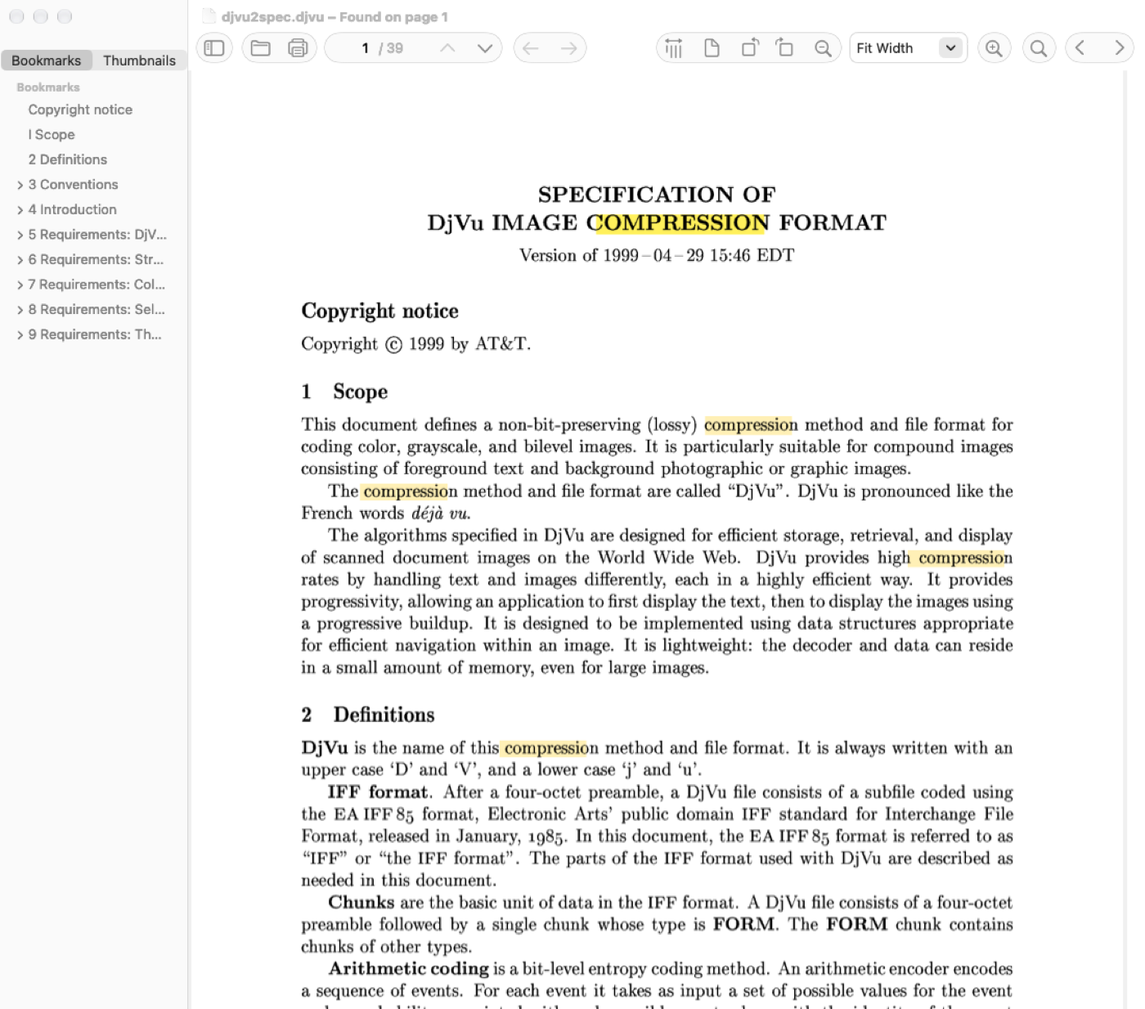
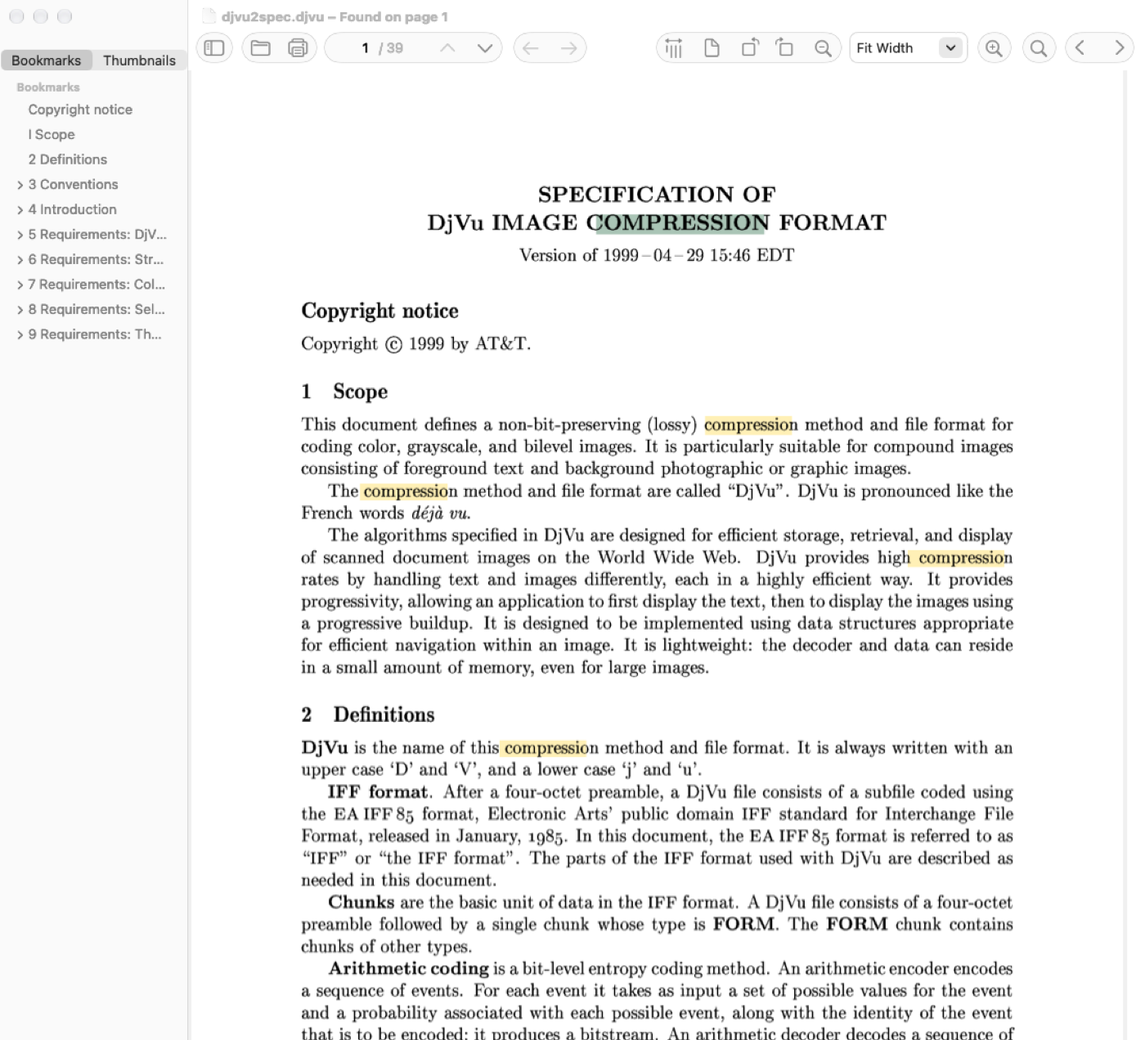
docs: first manual QA pass, changelog for 1.1.0

diff --git a/docs/MANUAL_QA.md b/docs/MANUAL_QA.md
@@ -23,71 +23,94 @@ build/SiliconReader.app/Contents/MacOS/SiliconReader -library /tmp/qa-library.js
 
 ## Прогон
 
-| Версия | Дата | macOS | Mac |
-|---|---|---|---|
-|  |  |  |  |
+| Версия | Дата       | macOS  | Mac      |
+| ------ | ---------- | ------ | -------- |
+| 1.0.4  | 07.11.2026 | 27.0.1 | Mac mini |
 
 ## Мышь и трекпад
 
-| Проверка | Ожидание | Статус | Заметка |
-|---|---|---|---|
-| Выделение текста перетаскиванием через несколько страниц | Выделяется непрерывно, ⌘C копирует всё | | |
-| Перетаскивание по пустому месту | Страница двигается рукой | | |
-| Двойной и тройной клик | Слово и строка | | |
-| Клик по внутренней ссылке в PDF | Переход на страницу, «Назад» возвращает | | |
-| Клик по внешней ссылке в PDF | Открывается браузер | | |
-| Курсор над ссылкой и над текстом | Рука и I-beam | | |
-| Щипок на трекпаде | Масштаб вокруг курсора | | |
-| Двойное касание двумя пальцами | Умное увеличение | | |
-| ⌘ + колесо | Масштаб вокруг курсора | | |
-| Колесо и трекпад в постраничном режиме | Листает страницы | | |
+| Проверка                                                 | Ожидание                                | Статус | Заметка      |
+| -------------------------------------------------------- | --------------------------------------- | ------ | ------------ |
+| Выделение текста перетаскиванием через несколько страниц | Выделяется непрерывно, ⌘C копирует всё  | ok     |              |
+| Перетаскивание по пустому месту                          | Страница двигается рукой                | ok     |              |
+| Двойной и тройной клик                                   | Слово и строка                          | ok     |              |
+| Клик по внутренней ссылке в PDF                          | Переход на страницу, «Назад» возвращает | ok     |              |
+| Клик по внешней ссылке в PDF                             | Открывается браузер                     | ok     |              |
+| Курсор над ссылкой и над текстом                         | Рука и I-beam                           | ok     |              |
+| Щипок на трекпаде                                        | Масштаб вокруг курсора                  | skip   | нет трекпада |
+| Двойное касание двумя пальцами                           | Умное увеличение                        | skip   | нет трекпада |
+| ⌘ + колесо                                               | Масштаб вокруг курсора                  | ok     |              |
+| Колесо и трекпад в постраничном режиме                   | Листает страницы                        | skip   | нет трекпада |
 
 ## Файлы
 
-| Проверка | Ожидание | Статус | Заметка |
-|---|---|---|---|
-| Диалог Open | Открывает PDF и DjVu | | |
-| Finder: «Открыть в программе» | Открывает во вкладке | | |
-| Перетащить файл на иконку в Dock | Открывает | | |
-| Перетащить файл из Finder на окно | Открывается во вкладке | | |
-| PDF с паролем: верный пароль | Открывается | | |
-| PDF с паролем: неверный пароль | Повторный запрос | | |
-| PDF с паролем: отмена | Без падения, документ не открыт | | |
-| Повреждённый или обрезанный файл | Понятная ошибка, без падения | | |
-| Файл меняется на диске | Перезагружается, позиция сохраняется | | |
+| Проверка                          | Ожидание                             | Статус | Заметка |
+| --------------------------------- | ------------------------------------ | ------ | ------- |
+| Диалог Open                       | Открывает PDF и DjVu                 | ok     |         |
+| Finder: «Открыть в программе»     | Открывает во вкладке                 | ok     |         |
+| Перетащить файл на иконку в Dock  | Открывает                            | ok     |         |
+| Перетащить файл из Finder на окно | Открывается во вкладке               | ok     |         |
+| PDF с паролем: верный пароль      | Открывается                          | ok     |         |
+| PDF с паролем: неверный пароль    | Повторный запрос                     | ok     |         |
+| PDF с паролем: отмена             | Без падения, документ не открыт      | ok     |         |
+| Повреждённый или обрезанный файл  | Понятная ошибка, без падения         | ok     |         |
+| Файл меняется на диске            | Перезагружается, позиция сохраняется | ok     |         |
+
+## Аннотации
+
+Проверять на копии файла: сохранение его перезаписывает.
+
+| Проверка                                                | Ожидание                                                | Статус | Заметка |
+| ------------------------------------------------------- | ------------------------------------------------------- | ------ | ------- |
+| Выделить текст мышью, нажать `A`, `U`, `X`              | Метка ложится точно на текст                            | ok     |         |
+| Выделение через несколько страниц и строк               | Метка на каждой строке каждой страницы                  | ok     |         |
+| Правый клик по выделению и по пустому месту страницы    | Меню с нужными пунктами                                 | ok     |         |
+| `T` над страницей                                       | Заметка появляется под курсором                         | ok     |         |
+| Наведение на заметку                                    | Подсказка с её текстом                                  | ok     |         |
+| Двойной клик по заметке                                 | Открывается редактор                                    | ok     |         |
+| `D`, рисование мышью, Esc                               | Штрих виден сразу, курсор-прицел, Esc выходит из режима | ok     |         |
+| Рисование на повёрнутой странице и при масштабе         | Штрих там, где вёл мышью                                | ok     |         |
+| Клик по аннотации, затем `⌦` или `⌫`                    | Удаляется                                               | ok     |         |
+| Точка в кнопке закрытия при несохранённых изменениях    | Есть, после `⌥⌘S` исчезает                              | ok     |         |
+| Закрыть вкладку с изменениями: Save, Don't Save, Cancel | Каждый вариант делает своё                              | ok     |         |
+| ⌘Q с изменениями в нескольких вкладках                  | Спрашивает про каждую                                   | ok     |         |
+| `R` с изменениями                                       | Сначала спрашивает                                      | ok     |         |
+| Save a Copy (`⌘S`) с изменениями                        | Копия с аннотациями, исходный файл не тронут            | ok     |         |
+| Сохранённый файл в Preview и Sumatra                    | Аннотации на месте                                      | ok     |         |
+| PDF с паролем: сохранить и открыть снова                | Пароль остаётся                                         | ok     |         |
 
 ## Вкладки и окна
 
-| Проверка | Ожидание | Статус | Заметка |
-|---|---|---|---|
-| Открыть несколько файлов | Отдельные вкладки | | |
-| Вытащить вкладку в окно и вернуть | Работает, состояние документа сохраняется | | |
-| ⇧⌘[ / ⇧⌘] и ⌘{ / ⌘} | Переключают вкладки | | |
-| Закрыть последнюю вкладку | Домашняя страница | | |
-| Восстановление сессии: несколько окон и вкладок | Те же файлы и страницы; проверить мелкое смещение прокрутки | | |
+| Проверка                                        | Ожидание                                                    | Статус | Заметка |
+| ----------------------------------------------- | ----------------------------------------------------------- | ------ | ------- |
+| Открыть несколько файлов                        | Отдельные вкладки                                           | ok     |         |
+| Вытащить вкладку в окно и вернуть               | Работает, состояние документа сохраняется                   | ok     |         |
+| ⇧⌘[ / ⇧⌘] и ⌘{ / ⌘}                             | Переключают вкладки                                         | ok     |         |
+| Закрыть последнюю вкладку                       | Домашняя страница                                           | ok     |         |
+| Восстановление сессии: несколько окон и вкладок | Те же файлы и страницы; проверить мелкое смещение прокрутки | ok     |         |
 
 ## Экран
 
-| Проверка | Ожидание | Статус | Заметка |
-|---|---|---|---|
-| Полный экран: вход и выход | Анимация без артефактов | | |
-| Презентация: вход, Esc, клики | Листает кликами, Esc выходит | | |
-| Два монитора с разным масштабом | Страницы перерисовываются чётко | | |
-| Перенос окна между мониторами | Без размытия и падений | | |
-| Смена светлой и тёмной темы на лету | Тулбар, холст и сайдбар меняются сразу | | |
+| Проверка                            | Ожидание                               | Статус | Заметка |
+| ----------------------------------- | -------------------------------------- | ------ | ------- |
+| Полный экран: вход и выход          | Анимация без артефактов                | ok     |         |
+| Презентация: вход, Esc, клики       | Листает кликами, Esc выходит           | ok     |         |
+| Два монитора с разным масштабом     | Страницы перерисовываются чётко        | ok     |         |
+| Перенос окна между мониторами       | Без размытия и падений                 | ok     |         |
+| Смена светлой и тёмной темы на лету | Тулбар, холст и сайдбар меняются сразу | ok     |         |
 
 ## Печать
 
-| Проверка | Ожидание | Статус | Заметка |
-|---|---|---|---|
-| Предпросмотр печати | Страницы верные | | |
-| Печать на реальном принтере | Качество 300 dpi | | |
-| Альбомные страницы | Ориентация верная | | |
+| Проверка                    | Ожидание          | Статус | Заметка |
+| --------------------------- | ----------------- | ------ | ------- |
+| Предпросмотр печати         | Страницы верные   | ok     |         |
+| Печать на реальном принтере | Качество 300 dpi  | ok     |         |
+| Альбомные страницы          | Ориентация верная | ok     |         |
 
 ## Большие документы
 
-| Проверка | Ожидание | Статус | Заметка |
-|---|---|---|---|
-| PDF на 1000+ страниц | Прокрутка плавная, память не растёт бесконечно | | |
-| Тяжёлый скан DjVu | Прокрутка плавная | | |
-| Поиск по большому документу | Прогресс виден, отмена работает | | |
+| Проверка                    | Ожидание                                       | Статус | Заметка |
+| --------------------------- | ---------------------------------------------- | ------ | ------- |
+| PDF на 1000+ страниц        | Прокрутка плавная, память не растёт бесконечно | ok     |         |
+| Тяжёлый скан DjVu           | Прокрутка плавная                              | ok     |         |
+| Поиск по большому документу | Прогресс виден, отмена работает                | ok     |         |

diff --git a/README.ru.md b/README.ru.md
@@ -29,6 +29,7 @@
 - ⚙ **Настройки** — режим и масштаб по умолчанию, что запоминать, восстановление сессии, автоперезагрузка
 - 🏠 **Домашняя страница** с миниатюрами «Frequently Read»
 - 🔎 **Поиск** с подсветкой всех совпадений, учёт регистра, ⌘G / ⇧⌘G или стрелки рядом с полем поиска
+- 🖍 **Аннотации в PDF**: выделение, подчёркивание, зачёркивание, заметки, рисование от руки, с сохранением в файл
 - ✂ **Выделение и копирование текста**, двойной/тройной клик, масштаб по выделению, ссылки
 - 💾 **Всё помнит** — страницу, масштаб и режим для каждого документа, восстанавливает сессию
 - 🔄 **Сама перезагружает** документ, когда файл меняется на диске (удобно с LaTeX)
@@ -88,6 +89,10 @@ make run FILE=path/to/book.djvu
 | `⌘6` `⌘7` `⌘8`, `c` | Одна страница / разворот / книжный, непрерывно вкл/выкл |
 | `[` `]` | Поворот |
 | `⌘F`, `⌘G` `⇧⌘G` | Поиск, следующее / предыдущее совпадение |
+| `a` `u` `x` | Выделить, подчеркнуть, зачеркнуть выделенный текст |
+| `t`, `d` | Добавить заметку, рисовать |
+| `e`, `⌦` `⌫` | Изменить выбранную заметку, удалить выбранную аннотацию |
+| `⌥⌘S` | Сохранить аннотации в файл |
 | `⌘K` (или `>` `@` `#` `$` `%`) | Палитра команд (команды, вкладки, недавние, избранное, оглавление) |
 | `⌘D` | В избранное |
 | `⌃⌘S` | Показать / скрыть сайдбар |
@@ -133,6 +138,7 @@ Tests/
 | `make test-swift60` | Unit и e2e тесты, собранные Swift 6.0.3 — тулчейном CI-задачи oldest-macos (подскажет, как его поставить) |
 | `make e2e-prebuilt` / `make smoke-prebuilt` | То же против уже собранного `build/SiliconReader.app` (CI гоняет их на macOS 15) |
 | `make check-library DIR=…` | Открывает каждый PDF/DjVu в папке, рендерит выборочные страницы (или все с `ALL_PAGES=1`), выдаёт отчёт о сбоях |
+| `make qa-files` | Файлы для ручного чек-листа в `build/qa`: PDF с паролем, обрезанный PDF и другие |
 | `make dmg` | Упаковывает приложение в `build/SiliconReader-<версия>.dmg` |
 | `make release VERSION=x.y.z` | Проверяет, тестирует и ставит тег релиза |
 | `make run FILE=…` | Собирает и открывает документ |

diff --git a/TODO.md b/TODO.md
@@ -22,7 +22,9 @@ system dialogs. The home-page Open crash (fixed in 1.0) lived exactly there.
 The checklist with results lives in [docs/MANUAL_QA.md](docs/MANUAL_QA.md); bugs it
 finds go here.
 
-- [ ] First full pass over `docs/MANUAL_QA.md`
+- [x] First full pass over `docs/MANUAL_QA.md` (before 1.1.0, Mac mini, macOS 27): no
+      failures
+- [ ] The trackpad checks: skipped, no trackpad on that Mac
 
 ### Release-blocking gaps
 
@@ -60,6 +62,8 @@ finds go here.
       https://github.com/Arroheim/silicon_reader/releases/tag/v1.0.2
 - [x] Released 1.0.4 (single keys in menus, placeholder for broken pages; 1.0.3 was
       tagged but never published): https://github.com/Arroheim/silicon_reader/releases/tag/v1.0.4
+- [x] Released 1.1.0 (PDF annotations, selection reworked):
+      https://github.com/Arroheim/silicon_reader/releases/tag/v1.1.0
 - [x] Local builds record the real SDK (they used to link as "sdk 14.0" and so never
       showed the macOS 26+ look); `make app` checks minos 14.0 / SDK / system-only
       libraries with `scripts/check-binary.sh`
@@ -98,7 +102,7 @@ expected value for everyday reading.
 
 | Feature | Sumatra | Notes |
 |---|---|---|
-| Annotations: highlight, underline, strike-out, notes, freehand | `a`/`u` keys, edit panel, save | MuPDF can create and save them (`pdf_*` annotation API) |
+| Annotations beyond the basics: colors, squiggly, moving and resizing, undo, a list in the sidebar | edit panel | highlight, underline, strike-out, notes, freehand and saving are done |
 | PDF forms: fill, save | partial | MuPDF widgets API |
 | SyncTeX forward/inverse search | yes | for LaTeX users; needs a CLI entry point and editor command setting |
 | Advanced settings | `SumatraPDF-settings.txt` | 1.0 has the essentials in Settings (⌘,) |
@@ -133,7 +137,10 @@ SumatraPDF's other engines: `EngineMupdf` (XPS, EPUB, FB2, MOBI, CBZ),
 ## Engineering
 
 - [ ] Split `DocumentView` (~900 lines): drawing/tiles, navigation, input
-- [ ] Bound memory: `TextStore` and link caches grow with every page visited
+- [ ] Bound memory: `TextStore` and link caches grow with every page visited; tiles
+      (384 MB) and MuPDF's store (256 MB) are limits per document, so memory grows with
+      open tabs (6 heavy documents: 2 GB). Use one budget for the app and let background
+      tabs give memory back. Measured before 1.1.0: no leak, the caches level off
 - [ ] Group debug flags (`-snapshot`, `-control`, `-actions`, …) into one `DebugOptions`
 - [ ] Accessibility: expose the text layer to VoiceOver
 - [ ] Rendering benchmarks (first page time, scroll throughput) tracked in CI

diff --git a/README.md b/README.md
@@ -29,6 +29,7 @@ the same engines Sumatra uses.
 - ⚙ **Settings** — default layout and zoom, what to remember, session restore, auto reload
 - 🏠 **Home page** with "Frequently Read" thumbnails
 - 🔎 **Find** with highlights for every match, match case, ⌘G / ⇧⌘G or the arrows next to the search field
+- 🖍 **PDF annotations**: highlight, underline, strike-out, notes, freehand, saved into the file
 - ✂ **Text selection and copy**, double/triple click, zoom to selection, clickable links
 - 💾 **Remembers everything** — page, zoom and layout per document, restores the session
 - 🔄 **Reloads automatically** when a file changes on disk (handy with LaTeX)
@@ -87,6 +88,10 @@ The most used shortcuts; press `?` in the app for all of them.
 | `⌘6` `⌘7` `⌘8`, `c` | Single / facing / book view, continuous on/off |
 | `[` `]` | Rotate |
 | `⌘F`, `⌘G` `⇧⌘G` | Find, next / previous match |
+| `a` `u` `x` | Highlight, underline, strike out the selection |
+| `t`, `d` | Add a note, draw |
+| `e`, `⌦` `⌫` | Edit the picked note, delete the picked annotation |
+| `⌥⌘S` | Save annotations into the file |
 | `⌘K` (or `>` `@` `#` `$` `%`) | Command palette (commands, tabs, recent, favorites, bookmarks) |
 | `⌘D` | Add to favorites |
 | `⌃⌘S` | Show / hide sidebar |
@@ -132,6 +137,7 @@ Tests/
 | `make test-swift60` | Unit and e2e tests built with Swift 6.0.3, the toolchain of the oldest-macos CI job (prints how to install it) |
 | `make e2e-prebuilt` / `make smoke-prebuilt` | The same against an existing `build/SiliconReader.app` (CI runs them on macOS 15) |
 | `make check-library DIR=…` | Open every PDF/DjVu under a folder, render sample pages (or all with `ALL_PAGES=1`), report failures |
+| `make qa-files` | Files for the manual checklist in `build/qa`: password-protected and truncated PDFs and more |
 | `make dmg` | Pack the app into `build/SiliconReader-<version>.dmg` |
 | `make release VERSION=x.y.z` | Check, test and tag a release |
 | `make run FILE=…` | Build and open a document |

diff --git a/CHANGELOG.md b/CHANGELOG.md
@@ -10,6 +10,34 @@ publishes the DMG with this section as the release notes.
 
 ## [Unreleased]
 
+## [1.1.0] - 2026-11-07
+
+### Added
+
+- PDF annotations: highlight (`A`), underline (`U`), strike-out (`X`), notes (`T`) and
+  freehand drawing (`D`), from the keyboard, the Annotate menu or a right click. Click
+  an annotation to pick it, then `E` edits its note and `⌦` or `⌫` deletes it; hovering
+  over a note shows its text. Annotations are ordinary PDF annotations, so other viewers
+  see them too.
+- Save Annotations (`⌥⌘S`) writes them into the open file; Save a Copy (`⌘S`) includes
+  them. Closing, quitting or reloading with unsaved annotations asks first, and a file
+  changed on disk no longer replaces them.
+
+### Changed
+
+- Selected text is the macOS selection blue instead of Sumatra's yellow, which couldn't
+  be seen over a highlight.
+
+### Fixed
+
+- A drag starting just beside the text, such as left of a line or between lines, moved
+  the page instead of selecting. It selects now, and the page moves when dragged from
+  further away.
+- Selecting text no longer moves the page while the pointer is away from the window's
+  edges. Holding a selection at an edge scrolls that way, without moving the mouse, and
+  the harder you pull, even against the edge of the screen, the faster it goes.
+- Text inside a link can be selected: a drag selects it, a click still follows the link.
+
 ## [1.0.4] - 2026-11-07
 
 Version 1.0.3 was tagged but never published: GitHub retired its macOS 14 runners
